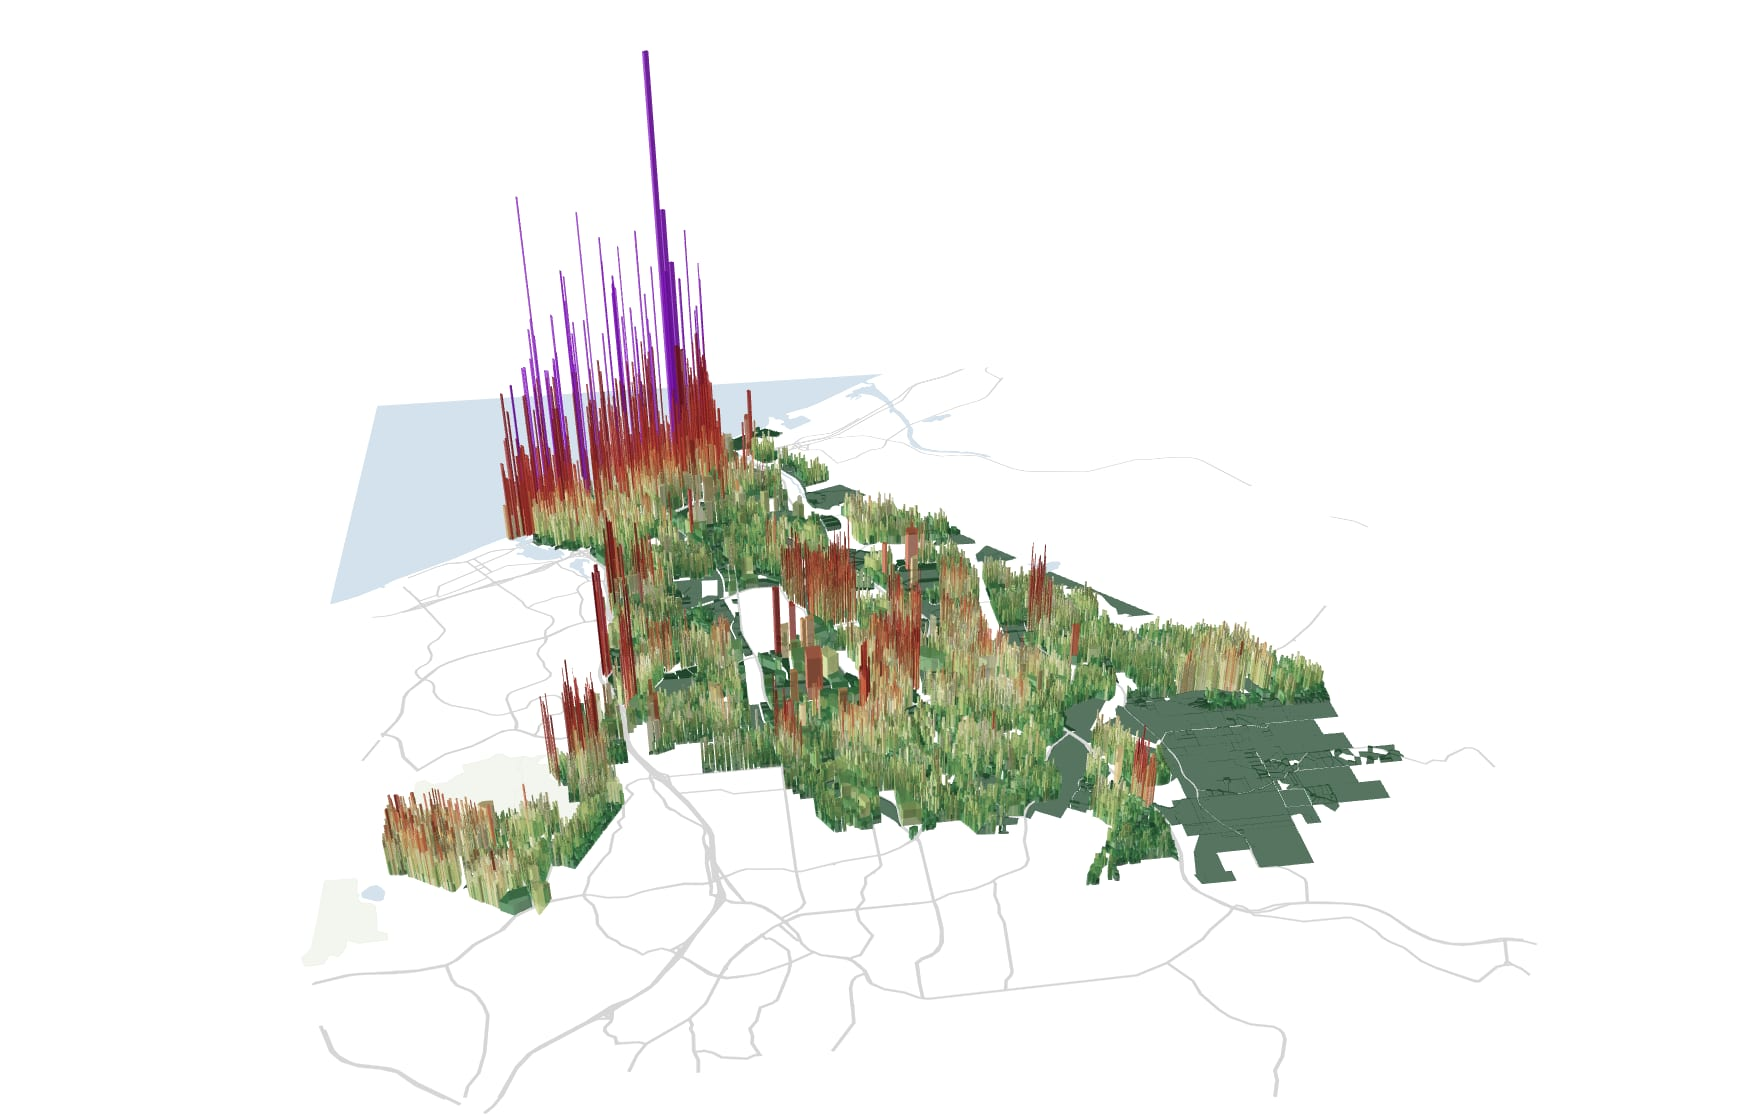
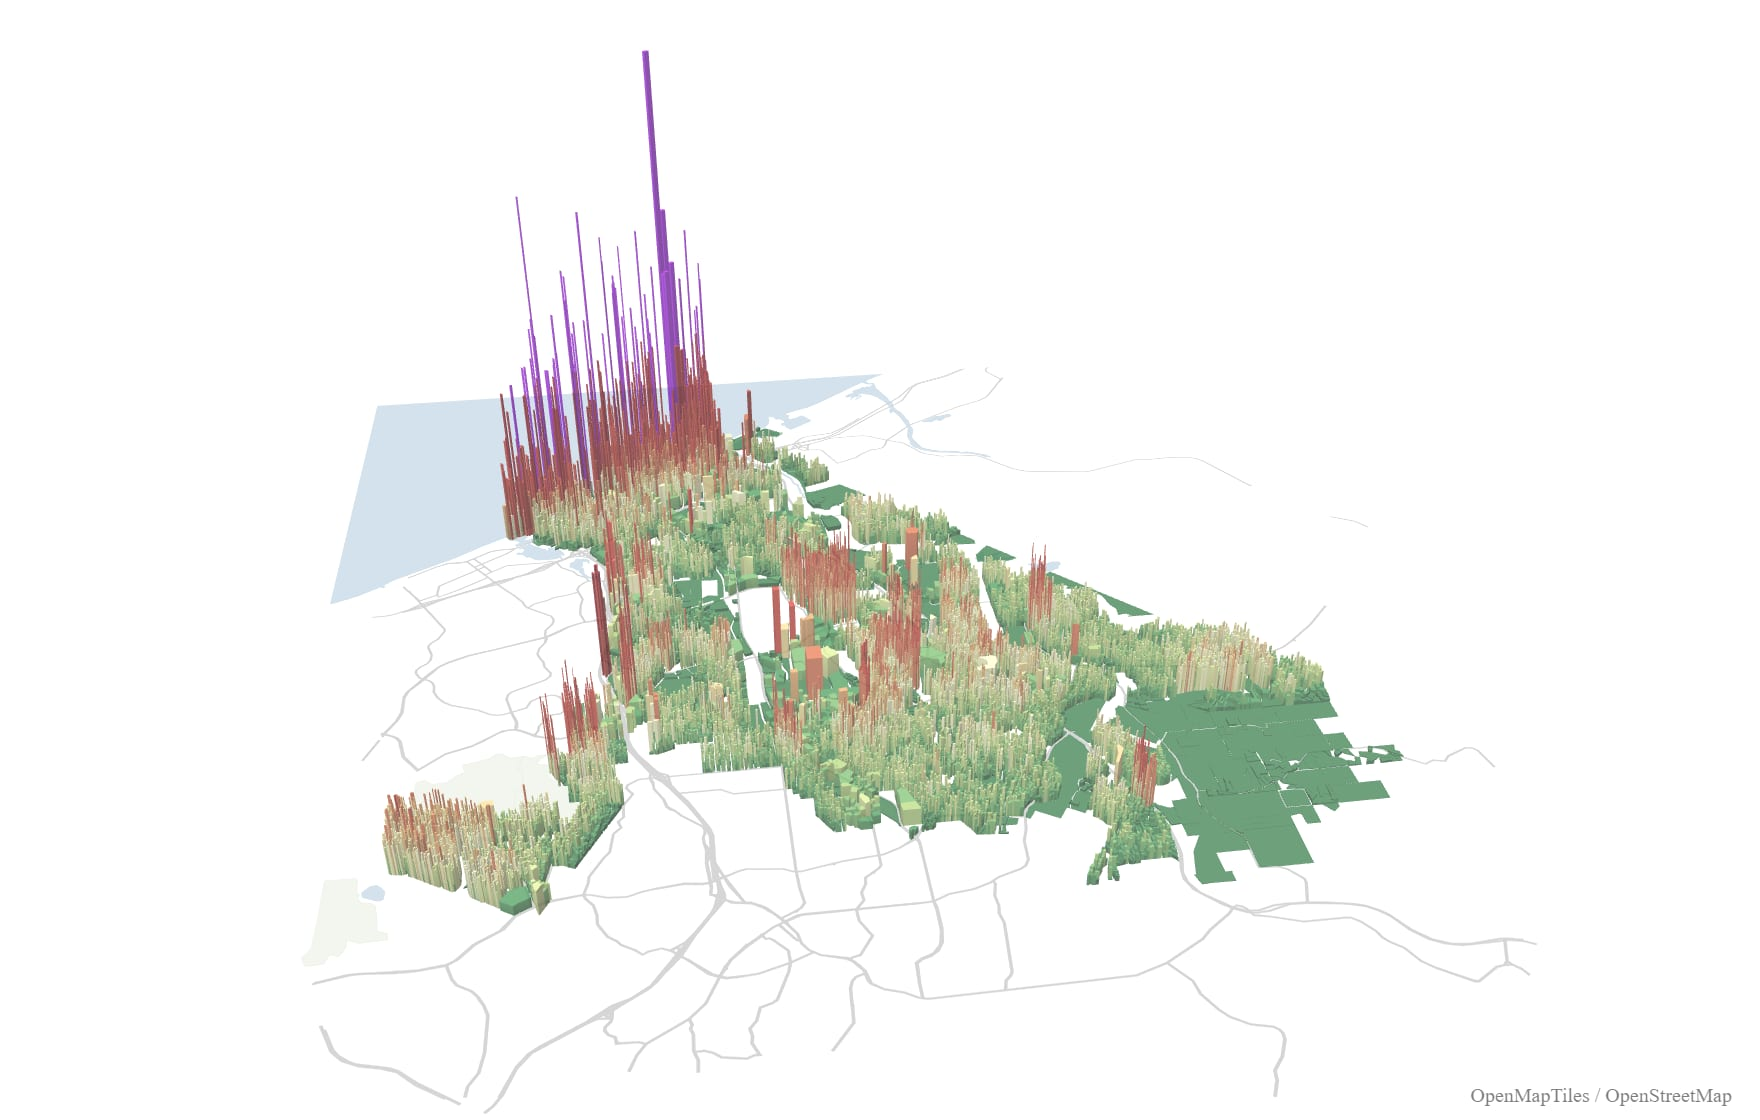
feat(cms): auto-reupload cover when frontend poster content changes
Migration 005 used to only upload the poster if no media with that
filename existed. After the first run, any regeneration on the
frontend side was ignored, so the Strapi cover stayed stuck on the
first version. When the frontend re-captured posters with different
rendering settings (opacity, camera, etc.) the Strapi cover drifted
out of sync.

Add a SHA-256-of-first-16KB check stashed in the media's caption
field. On each boot the migration:
  - computes the hash of the on-disk asset
  - compares against the stored hash in caption + size in KB
  - matches -> reuse
  - differs -> delete stale, upload fresh with the new hash

The caption field is user-visible in Strapi admin but no longer
shown in any frontend template, so using it as a metadata sidecar
is fine.

Also refreshes the bundled poster to the new frontend version
captured at fill-extrusion-opacity 0.75.

Changed region(s): [[0.2188, 0.1875, 0.8125, 0.8125], [0.8438, 0.9688, 0.9688, 1.0]]

diff --git a/strapi.cms/src/migrations/005-article-cover.ts b/strapi.cms/src/migrations/005-article-cover.ts
@@ -1,5 +1,6 @@
 import fs from 'node:fs';
 import path from 'node:path';
+import crypto from 'node:crypto';
 import type { Core } from '@strapi/strapi';
 
 // Upload the desktop poster JPG as a Strapi media file and link it to
@@ -25,11 +26,27 @@ export const migration = {
       return;
     }
 
-    // 1. Reuse or upload.
-    let media = await strapi.query('plugin::upload.file').findOne({ where: { name: fileName } });
+    // 1. Reuse or (re)upload. We re-upload when the file content has
+    //    changed vs what Strapi already has, detected via a SHA-256 of
+    //    the first 16 KB stored in the media's caption field. This lets
+    //    frontend-side poster regenerations propagate to the Strapi-
+    //    managed cover without needing a new filename per version.
+    const stats = fs.statSync(filePath);
+    const diskSizeKb = Math.round(stats.size / 1024);
+    const headBuf = fs.readFileSync(filePath).subarray(0, 16 * 1024);
+    const diskHash = crypto.createHash('sha256').update(headBuf).digest('hex').slice(0, 16);
+    const freshTag = `h:${diskHash}`;
 
-    if (!media) {
-      const stats = fs.statSync(filePath);
+    let media = await strapi.query('plugin::upload.file').findOne({ where: { name: fileName } });
+    const storedTag = media?.caption ?? null;
+
+    if (media && storedTag === freshTag && media.size === diskSizeKb) {
+      // No drift; reuse existing media.
+    } else {
+      if (media) {
+        await strapi.plugin('upload').service('upload').remove(media);
+        strapi.log.info(`[migration:005-article-cover] removed stale ${fileName}`);
+      }
       const uploaded = (await strapi
         .plugin('upload')
         .service('upload')
@@ -39,6 +56,9 @@ export const migration = {
               name: fileName,
               alternativeText:
                 'Value per acre map of Oceanside parcels, rendered as 3D extrusions over streets and water.',
+              // Stash the content hash in caption so the next migration
+              // run can cheaply detect drift. Not user-facing.
+              caption: freshTag,
             },
           },
           files: {
@@ -49,7 +69,7 @@ export const migration = {
           },
         })) as Array<{ id: number }>;
       media = uploaded[0];
-      strapi.log.info(`[migration:005-article-cover] uploaded ${fileName}`);
+      strapi.log.info(`[migration:005-article-cover] uploaded ${fileName} (${freshTag})`);
     }
 
     // 2. Link to the article.
